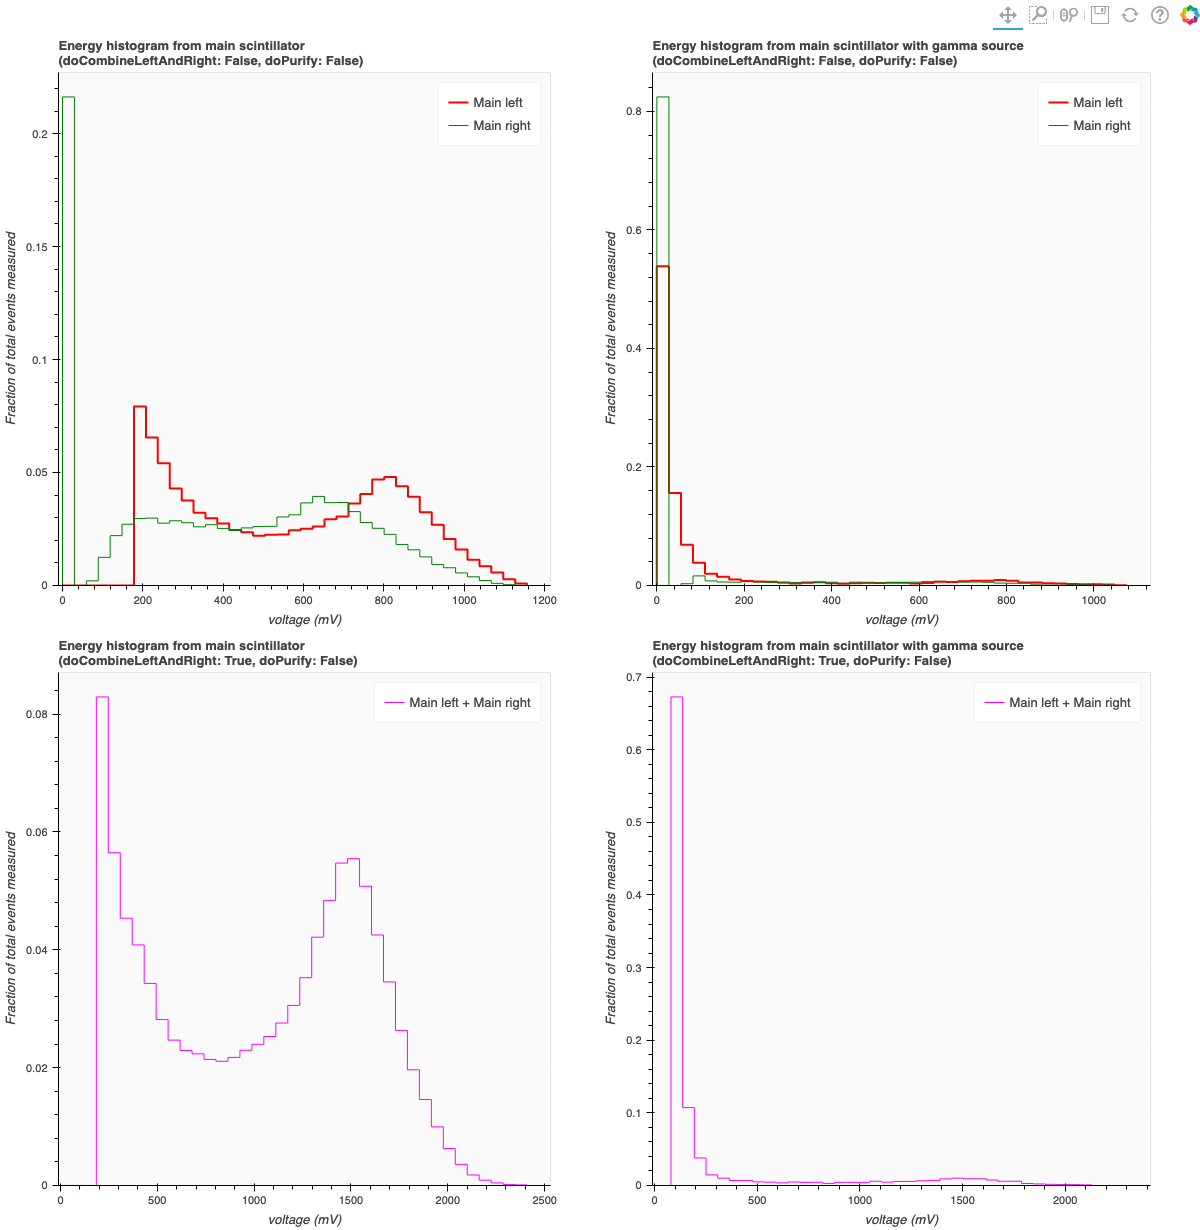
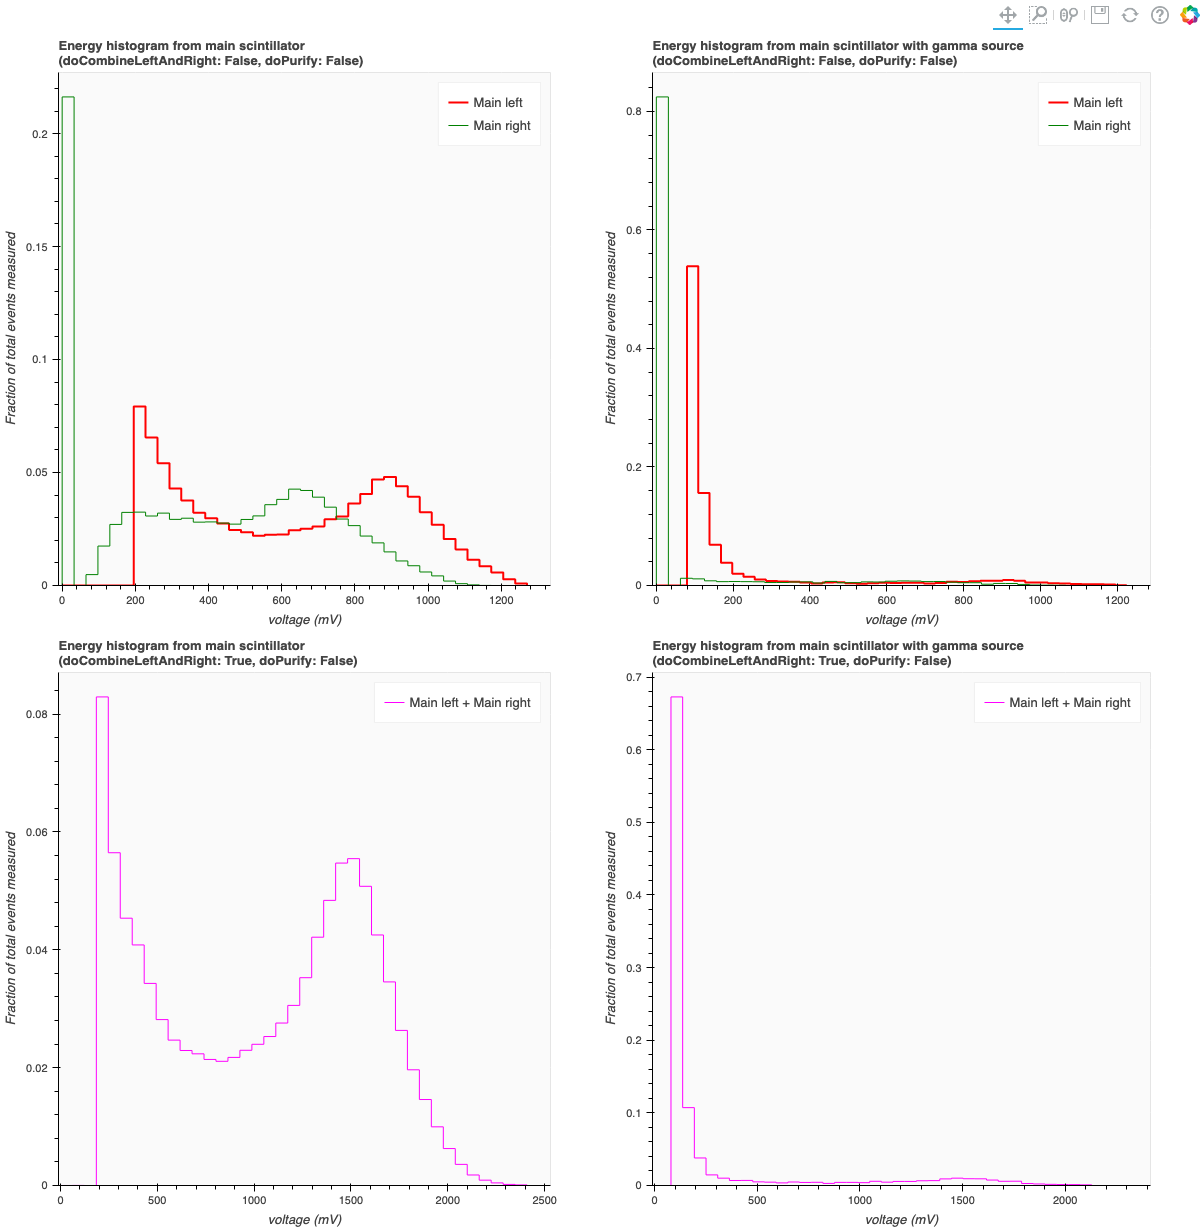
fixed threshold issue for graphs 1/2 and 4

diff --git a/histogram.html b/histogram.html
@@ -34,14 +34,14 @@
           
           
             
-              <div class="bk-root" id="14e62eef-51be-483b-b3c7-6252f904c8c7" data-root-id="1002"></div>
+              <div class="bk-root" id="7a3b20ad-ee76-4425-8f57-1cbc06c667f5" data-root-id="1295"></div>
             
           
         
       
       
-        <script type="application/json" id="1228">
[1 lines of base64/hex data omitted]
+        <script type="application/json" id="1868">
[1 lines of base64/hex data omitted]
         </script>
         <script type="text/javascript">
           (function() {
@@ -50,8 +50,8 @@
                 (function(root) {
                   function embed_document(root) {
                     
-                  const docs_json = document.getElementById('1228').textContent;
-                  const render_items = [{"docid":"e0c5773f-54f8-4b56-a8db-ef7d1a32fdbc","root_ids":["1002"],"roots":{"1002":"14e62eef-51be-483b-b3c7-6252f904c8c7"}}];
+                  const docs_json = document.getElementById('1868').textContent;
+                  const render_items = [{"docid":"d02f63df-b6fc-4b53-ab51-7f7c5f2b0237","root_ids":["1295"],"roots":{"1295":"7a3b20ad-ee76-4425-8f57-1cbc06c667f5"}}];
                   root.Bokeh.embed.embed_items(docs_json, render_items);
                 
                   }

diff --git a/histogram.py b/histogram.py
@@ -75,14 +75,23 @@ def graph1(path, isGamma=False, doCombineLeftAndRight=False, doPurify=False, doS
     if not doCombineLeftAndRight:
         L_heights = p1_h[:, Channel.left]
         R_heights = p1_h[:, Channel.right]
-        histL, edges = np.histogram(L_heights, bins=num_bins)
-        histR, edges = np.histogram(R_heights, bins=num_bins)
+        
+        if np.max(L_heights) > np.max(R_heights):
+            R_heights = np.append(R_heights, np.max(L_heights))
+        elif np.max(L_heights) < np.max(R_heights):
+            L_heights = np.append(L_heights, np.max(R_heights))
+
+        histL, edges1 = np.histogram(L_heights, bins=num_bins)
+        histR, edges2 = np.histogram(R_heights, bins=num_bins)
+
+        histL, edges1 = np.histogram(L_heights, bins=num_bins)
+        histR, edges2 = np.histogram(R_heights, bins=num_bins)
 
         if isGamma:
-            p = make_step_histogram('Energy histogram from main scintillator with gamma source\n(doCombineLeftAndRight: %s, doPurify: %s)'%(doCombineLeftAndRight, doPurify), [histL, histR], [Channel.left, Channel.right], [edges, edges], 
+            p = make_step_histogram('Energy histogram from main scintillator with gamma source\n(doCombineLeftAndRight: %s, doPurify: %s)'%(doCombineLeftAndRight, doPurify), [histL, histR], [Channel.left, Channel.right], [edges1, edges2], 
                         'voltage (mV)', 'count / bin', LandRCombined=doCombineLeftAndRight)
         else:
-            p = make_step_histogram('Energy histogram from main scintillator\n(doCombineLeftAndRight: %s, doPurify: %s)'%(doCombineLeftAndRight, doPurify), [histL, histR], [Channel.left, Channel.right], [edges, edges], 
+            p = make_step_histogram('Energy histogram from main scintillator\n(doCombineLeftAndRight: %s, doPurify: %s)'%(doCombineLeftAndRight, doPurify), [histL, histR], [Channel.left, Channel.right], [edges1, edges2], 
                         'voltage (mV)', 'count / bin', LandRCombined=doCombineLeftAndRight)
     
     else:
@@ -133,12 +142,20 @@ def graph4(path, doCombineLeftAndRight=False, doPurify=False, doShow=True, throu
         else:
             cond:bool = (p1_h[:, Channel.top] != 0) & (p1_h[:, Channel.bottom] == 0)
         p1_h = p1_h[cond]
-        histL, edges = np.histogram(p1_h[:, Channel.left], bins=num_bins)
-        histR, edges = np.histogram(p1_h[:, Channel.right], bins=num_bins)
+
+        L_heights = p1_h[:, Channel.left]
+        R_heights = p1_h[:, Channel.right]
+        if np.max(L_heights) > np.max(R_heights):
+            R_heights = np.append(R_heights, np.max(L_heights))
+        elif np.max(L_heights) < np.max(R_heights):
+            L_heights = np.append(L_heights, np.max(R_heights))
+
+        histL, edges1 = np.histogram(L_heights, bins=num_bins)
+        histR, edges2 = np.histogram(R_heights, bins=num_bins)
+
+        p = make_step_histogram(title, [histL, histR], [Channel.left, Channel.right], [edges1, edges2], 'voltage (mV)', 'count / bin')
 
         
-        p = make_step_histogram(title, [histL, histR], [Channel.left, Channel.right], [edges, edges], 
-                    'voltage (mV)', 'count / bin')
 
     else:
         if through:
@@ -152,12 +169,10 @@ def graph4(path, doCombineLeftAndRight=False, doPurify=False, doShow=True, throu
         p = make_step_histogram(title, [histMain], [Channel.leftAndRight], [edges], 
                     'voltage (mV)', 'count / bin', LandRCombined=True)
 
-    # p.title.align = 'center'
     if doShow:
         show(p)
     p.min_border_right = min_right_border
     return p
-    # return p
 
 # Incident on left and right
 def graph5(path, doCombineLeftAndRight=False, doPurify=False, doShow=True):
@@ -218,6 +233,8 @@ def graph6(path, doCombineLeftAndRight=True, doPurify=False, doShow=True):
     histMainP1 = np.insert(histMainP1, 0, [0])
     edges = np.insert(edges, 0, [0])
 
+    
+
     p.step(edges[:-1], histMainP1, mode="after", line_width=2, color="blue", legend_label="1st peak (Main left + Main right)")
 
     histMainP2, edges = np.histogram(main_heights_p2, bins=num_bins)
@@ -236,19 +253,34 @@ def graph6(path, doCombineLeftAndRight=True, doPurify=False, doShow=True):
 def graph7(path, doCombineLeftAndRight=False, doPurify=False, doShow=True):
     p1_h, p2_h, p1_t, p2_t = get_data(path, combineLandR=doCombineLeftAndRight, doPurify=doPurify)
     # isolate muon events that lead to decay measured by top
-    cond:bool = (p2_h[:, Channel.top] != 0)
-    top = p2_h[:,Channel.top][cond]
 
-    bottom = p2_h[:, Channel.bottom][cond]
-    numTopMeasuredDecay = top.shape[0]
-    numTopAndBottomMeasuredDecay = len(np.nonzero(bottom))
-                                 # np.sum(np.where(bottom != 0, 1, 0))
+    if False:
+        cond:bool = (p2_h[:, Channel.top] != 0)
+        
+        top = p2_h[:,Channel.top][cond]
+
+        bottom = p2_h[:, Channel.bottom][cond]
+        numTopMeasuredDecay = top.shape[0]
+        numTopAndBottomMeasuredDecay = len(np.nonzero(bottom))
+                                    # np.sum(np.where(bottom != 0, 1, 0))
 
 
-    x_labels = ["Top", "Top and Bottom"]
-    counts = [numTopMeasuredDecay, numTopAndBottomMeasuredDecay]
+        x_labels = ["Top", "Top and Bottom"]
+        counts = [numTopMeasuredDecay, numTopAndBottomMeasuredDecay]
+        p = figure(title='Did bottom measure decay when top measured decay', background_fill_color="#fafafa", x_range=x_labels)
+    else:
+        cond:bool = (p2_h[:, Channel.bottom] != 0)
+        top = p2_h[:,Channel.top][cond]
+        bottom = p2_h[:, Channel.bottom][cond]
+        numBottomMeasuredDecay = bottom.shape[0]
+        numTopAndBottomMeasuredDecay = len(np.nonzero(top))
+                                    # np.sum(np.where(bottom != 0, 1, 0))
 
-    p = figure(title='Did bottom measure decay when top measured decay', background_fill_color="#fafafa", x_range=x_labels)
+
+        x_labels = ["Bottom", "Top and Bottom"]
+        counts = [numBottomMeasuredDecay, numTopAndBottomMeasuredDecay]
+
+        p = figure(title='Did top measure decay when bottom measured decay', background_fill_color="#fafafa", x_range=x_labels)
     p.vbar(x=x_labels, top=counts, width=0.9)
     # p.xaxis.axis_label = 'Top voltage (mV)'
     p.yaxis.axis_label = 'Num events decay measured'
@@ -300,7 +332,7 @@ def all4plots(function, filename):
 
 
 def generateFinalGraphs1and2():
-    doPurify:bool = False
+    doPurify:bool = True
     all =               graph1(filename,            isGamma=False,  doCombineLeftAndRight=False,    doPurify=doPurify, doShow=False) # FINAL GRAPH 1  
     gamma =             graph1("gamma_data.npz",    isGamma=True,   doCombineLeftAndRight=False,    doPurify=doPurify, doShow=False) # Gamma graph
     allCombined =       graph1(filename,            isGamma=False,  doCombineLeftAndRight=True,     doPurify=doPurify, doShow=False) # FINAL GRAPH 1  
@@ -340,14 +372,14 @@ def generateFinalGraph6():
 def generateFinalGraph7():
     g = graph7(filename, doCombineLeftAndRight=False, doPurify=False, doShow=False)
     show(g)
-    export_png(g, filename="graphs/graph7_bar_graph.png")
+    export_png(g, filename="graphs/graph7_alternate_bar_graph.png")
 
 # all4plots(graph3, filename)
 
-# generateFinalGraphs1and2()
+generateFinalGraphs1and2()
 # generateFinalGraph3()
 # generateFinalGraph4()
-generateFinalGraph5()
+# generateFinalGraph5()
 # generateFinalGraph6()
 # generateFinalGraph7()
 
